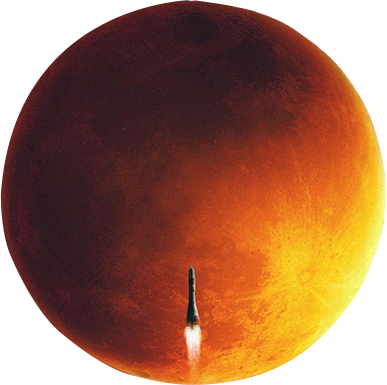
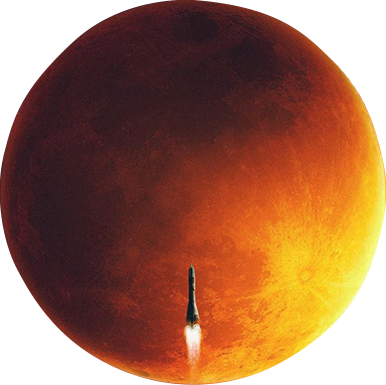
немного стилей

diff --git a/src/pages/home-page/styles.module.scss b/src/pages/home-page/styles.module.scss
@@ -5,7 +5,7 @@
   position: relative;
   padding-top: calc(units.$header-height + funcs.px-rem(38));
   display: flex;
-  background: url("../../shared/assets/imgs/bg.png");
+  background: url("../../shared/assets/imgs/stars.png");
   background-size: cover;
   background-position-y: 50%;
   background-position-x: 50%;
@@ -19,6 +19,7 @@
 }
 
 .banner_wrap__welcome {
+  z-index: 50;
   width: funcs.px-rem(446);
 }
 
@@ -38,7 +39,15 @@
   letter-spacing: funcs.px-rem(0.05);
   line-height: 1;
   text-transform: uppercase;
-  color: white;
+  color: transparent;
+  background: linear-gradient(
+    90deg,
+    rgba(255, 255, 255, 1) 0%,
+    rgba(255, 106, 0, 1) 95%,
+    rgba(255, 106, 0, 1) 100%
+  );
+
+  background-clip: text;
 
   span {
     display: block;
@@ -49,14 +58,92 @@
   }
 }
 
+.stars_wrap,
+.sun_wrap,
 .mars_wrap {
   position: absolute;
   left: 50%;
   top: 50%;
+}
+
+.stars_wrap {
+  z-index: 40;
+  transform: translate(-48%, -50%);
+
+  img {
+    user-select: none;
+    pointer-events: none;
+    transform: scale(1.02);
+  }
+}
+
+.sun_wrap {
+  z-index: 55;
+  width: funcs.px-rem(388 / 3);
+  height: funcs.px-rem(388 / 3);
+  background: rgb(255, 255, 255);
+  transform: translate(
+    calc(-50% + funcs.px-rem(388 / 2.8)),
+    calc(-50% + funcs.px-rem(388 / 5.8))
+  );
+
+  filter: blur(funcs.px-rem(388 / 50));
+
+  box-shadow: 0 0 funcs.px-rem(12) funcs.px-rem(24) rgba(255, 238, 0, 0.8),
+    0 0 funcs.px-rem(48) funcs.px-rem(64) rgba(255, 166, 0, 0.96),
+    0 0 funcs.px-rem(64) funcs.px-rem(64) rgba(255, 115, 0, 1),
+    0 0 funcs.px-rem(88) funcs.px-rem(192) rgba(255, 0, 0, 0.24);
+
+  border-radius: 50%;
+}
+
+.mars_wrap {
+  z-index: 60;
+  border-radius: 50%;
+  overflow: hidden;
+
+  width: funcs.px-rem(388);
+  height: funcs.px-rem(388);
+
+  box-shadow: 0 0 48px 64px rgba(255, 187, 0, 0.08);
+
   transform: translate(-50%, -50%);
+
+  img {
+    user-select: none;
+    pointer-events: none;
+    width: 100%;
+    height: 100%;
+    object-fit: cover;
+  }
 }
 
 .banner_wrap__achievements {
+  z-index: 60;
   height: funcs.px-rem(380);
   width: funcs.px-rem(380);
+  display: grid;
+  gap: 8px;
+  grid-template-columns: repeat(2, 1fr);
+
+  .grid_item {
+    * {
+      height: 100%;
+    }
+  }
+}
+
+.button {
+  display: flex;
+  align-items: center;
+  justify-content: center;
+  width: 181px;
+  height: 36px;
+  background: none;
+  color: white;
+  border: 1px solid rgb(75, 108, 255);
+
+  font-weight: 300;
+  font-size: 14px;
+  line-height: 1;
 }

diff --git a/src/pages/home-page/sections/banner-section/banner-section.tsx b/src/pages/home-page/sections/banner-section/banner-section.tsx
@@ -4,6 +4,7 @@ import st from "../../styles.module.scss";
 import cn from "classnames";
 import { Container, Plate } from "shared/ui";
 import Mars from "shared/assets/imgs/mars.png";
+import Stars from "shared/assets/imgs/custom-stars.png";
 
 export const BannerSection = () => {
   return (
@@ -15,15 +16,28 @@ export const BannerSection = () => {
               Путешествие <span>на красную планету</span>
             </h1>
           </div>
-          <button>Начать путешествие</button>
+          <button className={st.button}>Начать путешествие</button>
         </div>
+        <div className={st.stars_wrap}>
+          <img src={Stars} alt="stars" />
+        </div>
+        <div className={st.sun_wrap}></div>
         <div className={st.mars_wrap}>
-          <img src={Mars} alt="" />
+          <img src={Mars} alt="mars" />
         </div>
         <div className={cn(st.banner_wrap, st.banner_wrap__achievements)}>
-          <Plate>123</Plate>
-          <Plate>123</Plate>
-          <Plate>123</Plate>
+          <div className={st.grid_item}>
+            <Plate>123</Plate>
+          </div>
+          <div className={st.grid_item}>
+            <Plate>123</Plate>
+          </div>
+          <div className={st.grid_item}>
+            <Plate>123</Plate>
+          </div>
+          <div className={st.grid_item}>
+            <Plate>123</Plate>
+          </div>
         </div>
       </Container>
     </section>
